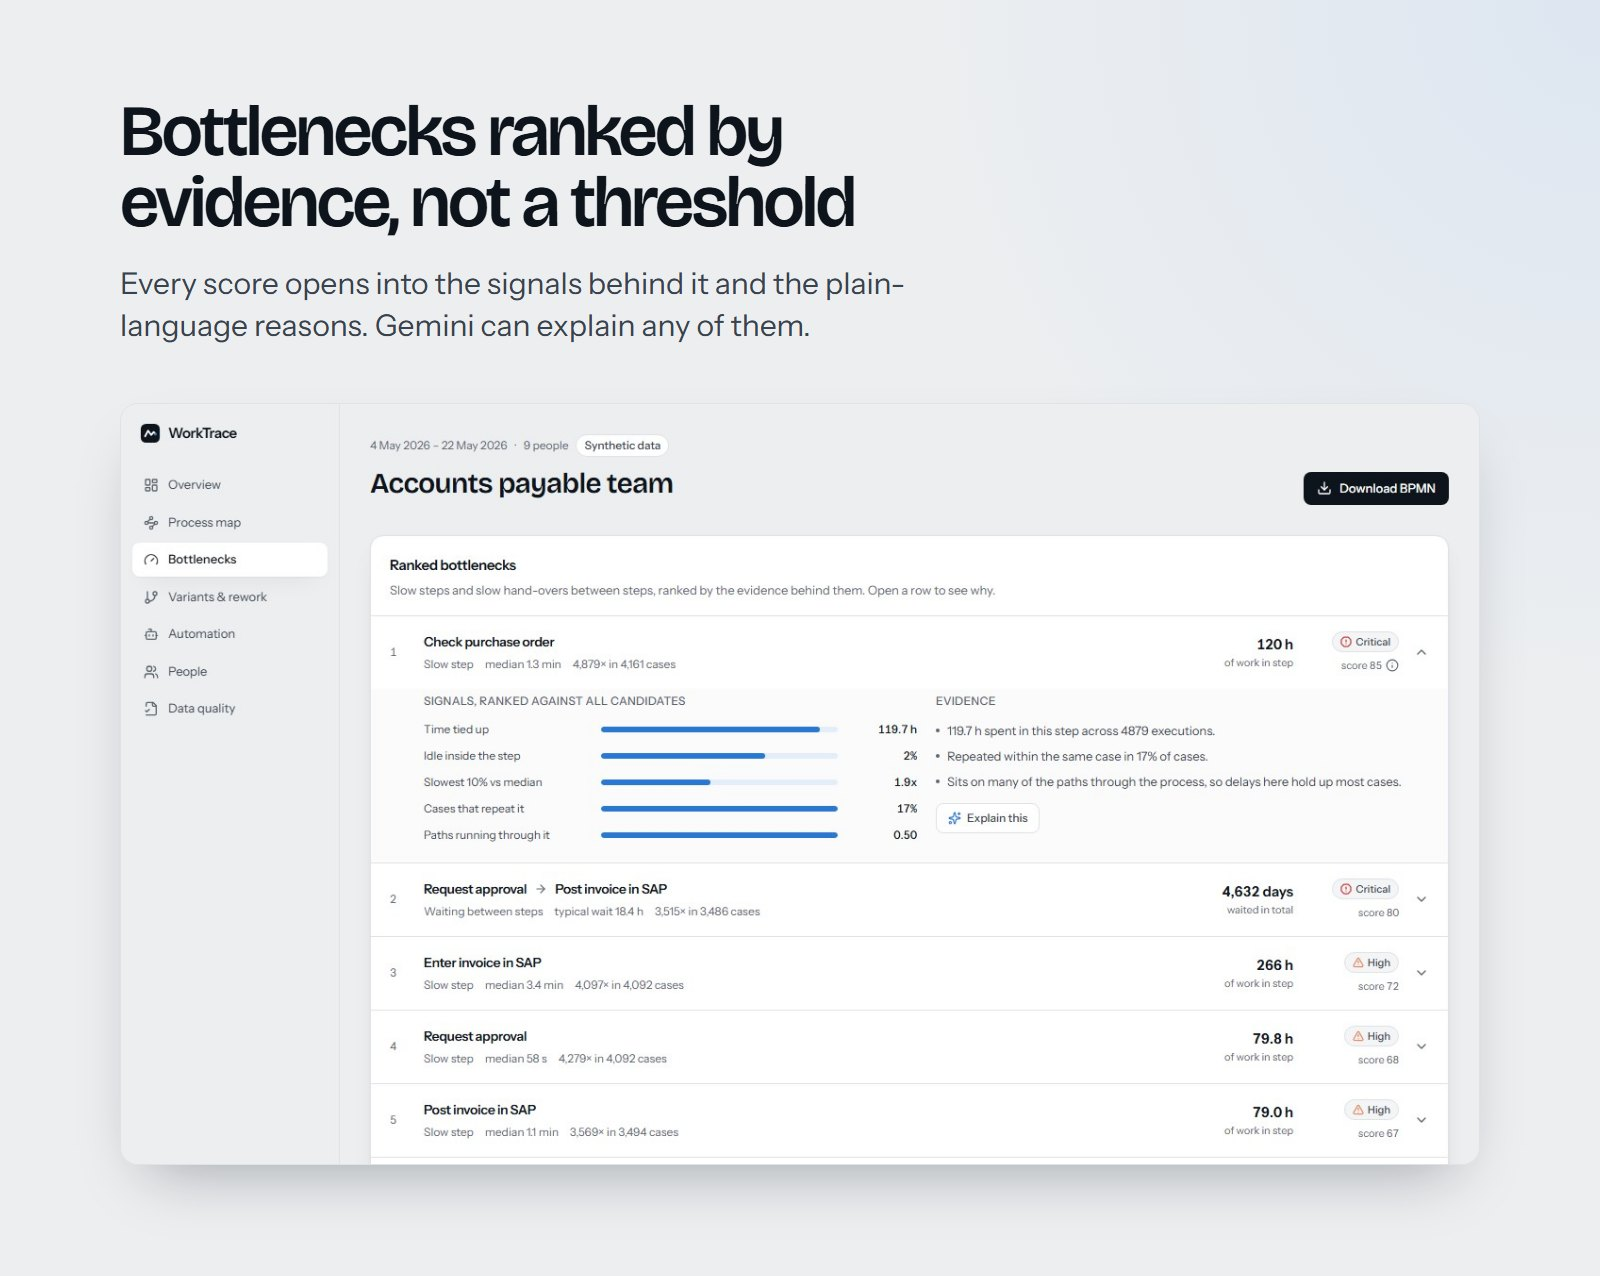
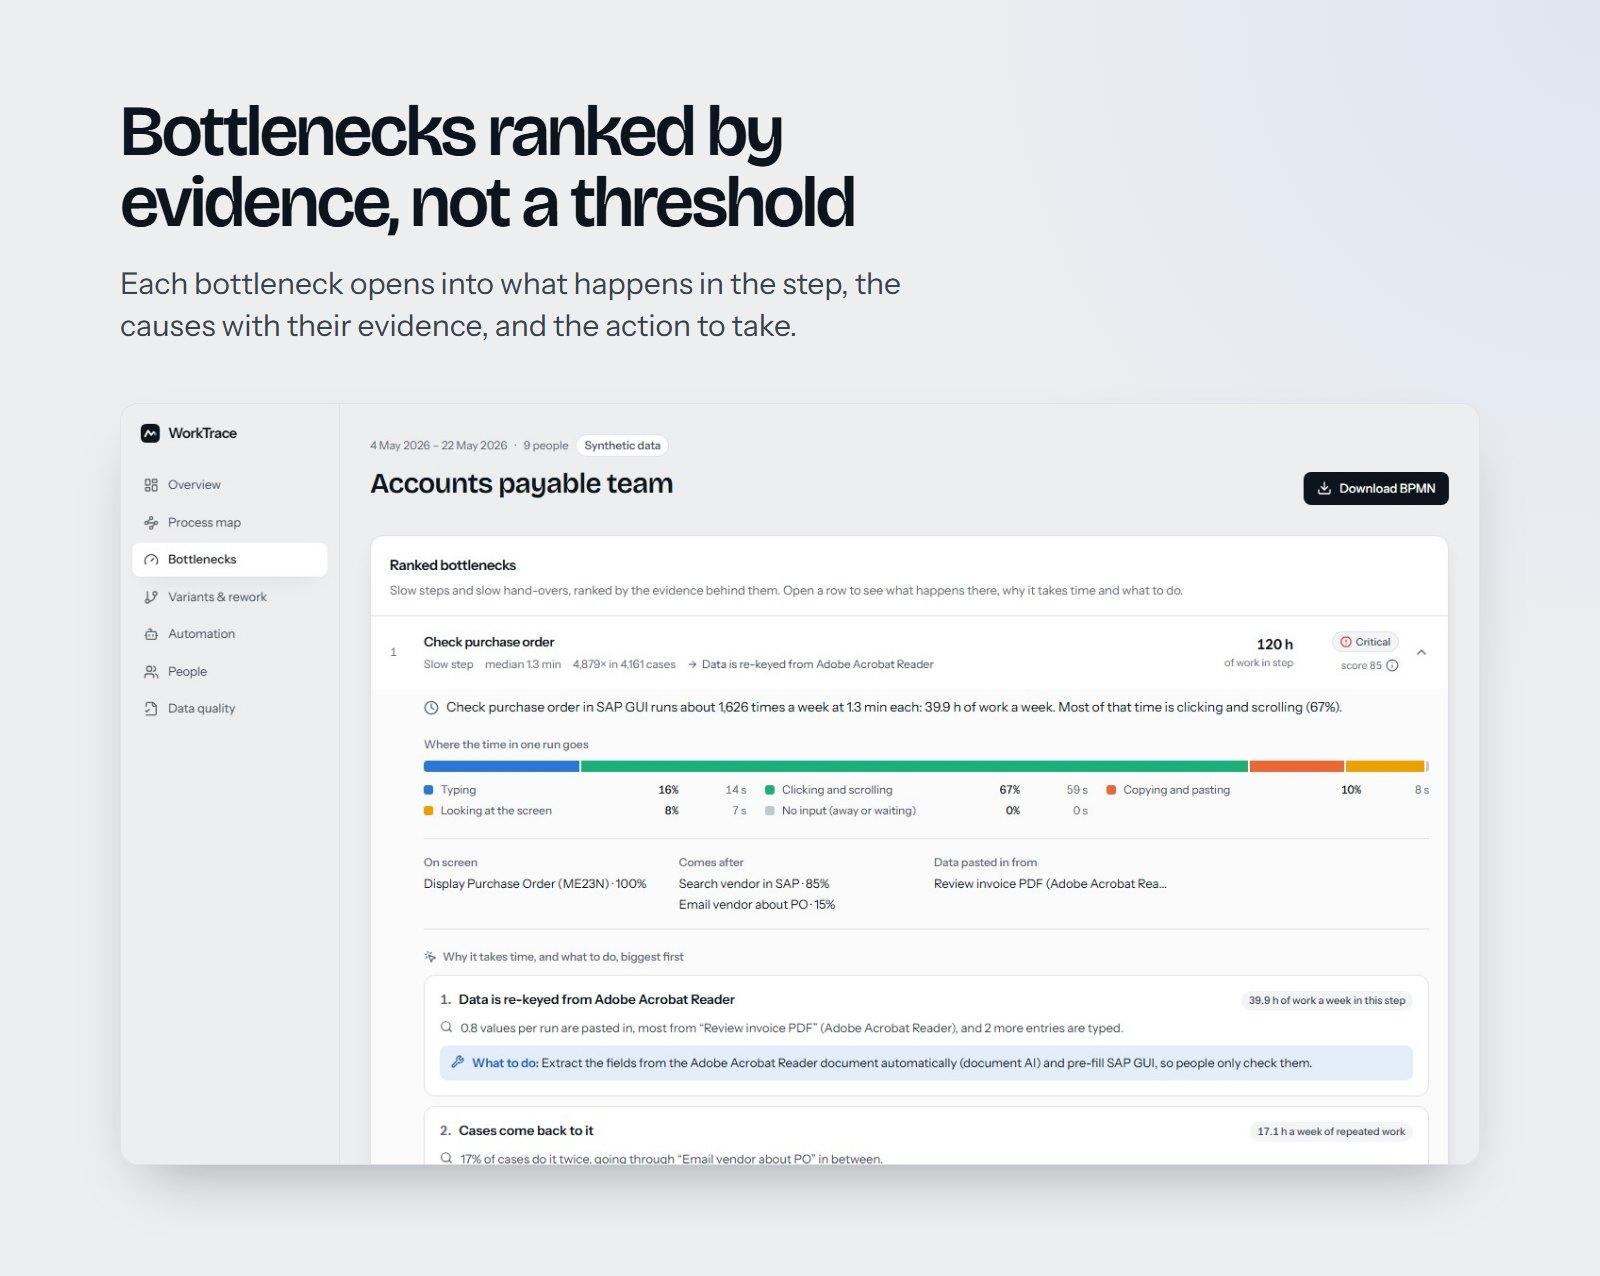
Update README and engineering notes

diff --git a/README.md b/README.md
@@ -1,8 +1,10 @@
 <p align="center"><img src="docs/readme/hero.jpg" width="100%" alt="WorkTrace. See how work really flows. First place at AI Krak Hack 2026."></p>
 
-<p align="center"><img src="docs/readme/demo.gif" width="100%" alt="Opening the accounts payable demo: overview, process map with the detail sliders, a bottleneck opened to its evidence, automation candidates and the people timeline"></p>
+<p align="center"><img src="docs/readme/demo.gif" width="100%" alt="Opening the accounts payable demo: overview, process map with the detail sliders, a bottleneck opened to its causes and actions, automation candidates and the people timeline"></p>
 
-<p align="center"><img src="docs/readme/fixed.jpg" width="100%" alt="The hackathon numbers were wrong. Now they are not."></p>
+<p align="center"><img src="docs/readme/diagnosis.jpg" width="100%" alt="Not just what is slow. Why, and what to do."></p>
+
+<p align="center"><img src="docs/readme/raw.jpg" width="100%" alt="Built for raw task-mining data"></p>
 
 <p align="center"><img src="docs/readme/map.jpg" width="100%" alt="The process as it runs, not as the wiki says"></p>
 
@@ -29,16 +31,17 @@
 
 ## About
 
-WorkTrace started as our entry to the **Process-to-Automation Copilot** challenge at **AI Krak Hack 2026** (Kraków, 27–28 March 2026), where team VibeCoders took first place. The brief: take task-mining data from KYP.ai (every click, keystroke and copy-paste of a team at work), reconstruct how the process really runs, find the bottlenecks and say what to automate.
+WorkTrace is team VibeCoders' winning entry to the **Process-to-Automation Copilot** challenge at **AI Krak Hack 2026** (Kraków, 27–28 March 2026). The brief: take raw task-mining data from KYP.ai (every click, keystroke and copy-paste of a team at work), reconstruct how the process really runs, find the bottlenecks and say what to automate.
 
-After the event I rebuilt it. The prototype read the export the naive way and its numbers were wrong (see the table above). This version reads the export for what it is, uses real process-mining algorithms instead of hand-tuned `if`s, and every number on screen can show where it came from.
+The point is the last part. A dashboard that says “Excel is a bottleneck” helps nobody. WorkTrace opens every bottleneck into what happens in that step: how its time splits into typing, clicking, copy-paste and time with nobody working, which screens it happens in, where the data comes from and goes, and which people and runs stand out. From that it says why the step is slow and what to do about it, with the hours each fix concerns and the runs to look at.
 
 ## What it does
 
 - **Reads messy exports.** KYP.ai Activity Sequence Exports (plain or `.gz`, any common encoding) and generic event logs with case, activity and timestamp columns. Footers, broken rows and repeated counters are handled; the Data quality tab says what was fixed.
 - **Finds the cases.** Business IDs read by OCR are cleaned by shape voting, and untagged steps are attributed to cases with a Markov model of the process. Without usable IDs, work is split into sessions.
 - **Maps the process.** Heuristics Miner dependency graph with Disco-style sliders for activities and paths, waiting times on every hand-over, and a BPMN 2.0 export.
-- **Ranks bottlenecks and automation candidates** from several measured signals, each with its percentile and the reasons in plain language. Optional Gemini explanations, grounded in the measured numbers only.
+- **Explains every bottleneck.** The time inside a step split by what the person was doing, the slow runs and what they are made of, re-keyed data, look-ups in other apps, people who take twice as long, approval queues and overnight waits: each as a cause with its evidence and a concrete action.
+- **Says what to automate and how.** Candidates scored on time, volume, manual input, copy-paste and predictability, each with the steps the automation would take over. Optional Gemini explanations, grounded in the measured numbers only.
 - **Compares people fairly** (speed on the same activities, not raw totals), finds rework loops, routines, copy-paste flows between applications and unusual cases.
 
 <details>
@@ -56,7 +59,7 @@ cd frontend && npm install && npm run dev              # dashboard on :3000
 Open http://localhost:3000 and pick a demo dataset, or upload your own export. Or run both in containers with `docker compose up`.
 
 ```bash
-cd backend && uv run pytest                             # 28 tests, including ground-truth checks on synthetic data
+cd backend && uv run pytest                             # 31 tests, including ground-truth checks on synthetic data
 uv run python -m worktrace.synthetic --days 15          # regenerate the synthetic AP team
 GEMINI_API_KEY=... uv run uvicorn worktrace.api.app:app  # turn on Gemini explanations
 ```
@@ -70,10 +73,10 @@ GEMINI_API_KEY=... uv run uvicorn worktrace.api.app:app  # turn on Gemini explan
 
 | Dataset | What it is |
 | --- | --- |
-| `data/demo/kyp_pilot_day.csv.gz` | A real, anonymised KYP.ai Activity Sequence Export from the hackathon: eight people of a software team on 1 March 2026. Screen text, OCR, URLs and window titles are removed. |
+| `data/demo/kyp_pilot_day.csv.gz` | A real, anonymised KYP.ai Activity Sequence Export from the hackathon: eight people of a software team on 1 March 2026. Screen text, OCR and URLs are removed; window titles are kept with hosts and addresses masked. |
 | `data/demo/accounts_payable.csv.gz` | Synthetic: three weeks of nine accounts-payable clerks, written by [`synthetic.py`](backend/worktrace/synthetic.py) in the exact export format with its quirks (repeated counters, NOT_FOUND and junk IDs, the footer). Built-in behaviour (approval waits, an 18% missing-PO loop, a slower clerk) is checked by the tests. |
 
-The full hackathon dataset (1.6 GB) belongs to the organisers and is not included.
+The full challenge dataset (1.6 GB) belongs to the organisers and is not included.
 
 </details>
 
@@ -82,6 +85,6 @@ The full hackathon dataset (1.6 GB) belongs to the organisers and is not include
 
 <br>
 
-The hackathon prototype was built by team VibeCoders: Mateusz Caputa, Marcin Pałys and Kacper Smaga. The analysis engine, the dashboard and this repository are a rebuild by Kacper Smaga.
+Built by team VibeCoders at AI Krak Hack 2026: Mateusz Caputa, Marcin Pałys and Kacper Smaga.
 
 </details>

diff --git a/docs/ENGINEERING.md b/docs/ENGINEERING.md
@@ -24,8 +24,7 @@ synthetic.py the synthetic AP team                       people        speed ind
 
 A KYP.ai Activity Sequence Export has one row per interaction (a click, a text entry, a paste), but the step-level
 columns (`Process Step Active Duration`, `Copy No.`, `Clicks No.` …) are repeated on every interaction row of the step.
-The hackathon prototype summed them over rows, which multiplied every counter by the number of interactions.
-Here rows are grouped by `(user, step start, step name)` first and counters are read once per step. Steps split by a
+Summed over rows they would multiply every counter by the number of interactions, so rows are grouped by `(user, step start, step name)` first and counters are read once per step. Steps split by a
 chunk boundary of the streaming reader are joined again. When an export has no counter columns, the interaction types
 are counted instead (and normalised: `Click`, `mouse`, `Text entry`, `text-entry` …).
 
@@ -96,7 +95,33 @@ pattern explains at least 90% of its support, so the list shows whole routines r
 **Unusual cases.** An Isolation Forest runs on log-scaled case features (duration, steps, repeats, waiting share,
 applications); flagged cases are explained by the features with a robust z-score (median and MAD) above 2.5.
 
-## 4. Checking it against ground truth
+## 4. Why a step is slow, and what to do
+
+A score says that a step matters; `mining/diagnosis.py` says why. Every interaction row in a KYP export has its own
+duration, and together they cover the step, so a step's time splits into typing, clicking and scrolling, copy-paste,
+looking at the screen and time with no input. Next to that the diagnosis collects the window titles the step happens
+in, the steps before and after it, the values pasted in (and from where) and copied out (and to where), the quick
+trips to another application, the spread between people, and the slowest runs.
+
+Each measurement that crosses a threshold becomes a cause with its evidence, a concrete action and the hours per day
+or week it concerns, biggest first:
+
+| Cause | Fires when | Suggested fix |
+| --- | --- | --- |
+| Data re-keyed | ≥ 0.5 values per run pasted in from another app | document AI for PDFs and scans, otherwise an integration or import |
+| Results copied on | ≥ 0.5 values per run pasted into a later step | send the result automatically |
+| Look-ups | ≥ 0.5 quick trips (A → B → A in 2 min) per run | bring the information into the main screen |
+| Manual typing | ≥ 5 text entries per run | pre-fill, templates, validation |
+| Nobody working | ≥ 15% of the step without input; breaks of 10+ min counted and listed | find out what people wait for |
+| Slow outliers | p90 ≥ 3 × median; the slow runs' own time split names the reason | depends on what the slow runs are made of |
+| Rework | ≥ 5% of cases come back through the same loop | catch the reason at the first pass |
+| People | slowest person ≥ 1.6 × the fastest on the same step | compare methods, write down the faster one |
+
+Hand-overs get their own causes: approval queues, waiting for an outside reply, work resuming only the next day, and a
+different person continuing the case. Automation candidates also get a blueprint: the steps the automation would take
+over, written from what was observed (trigger, inputs, the screen it fills, where the result goes).
+
+## 5. Checking it against ground truth
 
 The synthetic accounts-payable team has known behaviour planted in it, and `tests/test_end_to_end.py` checks that the
 engine finds it: the approval wait among the top bottlenecks, the missing-PO loop at its planted rate (about 17.5% of
